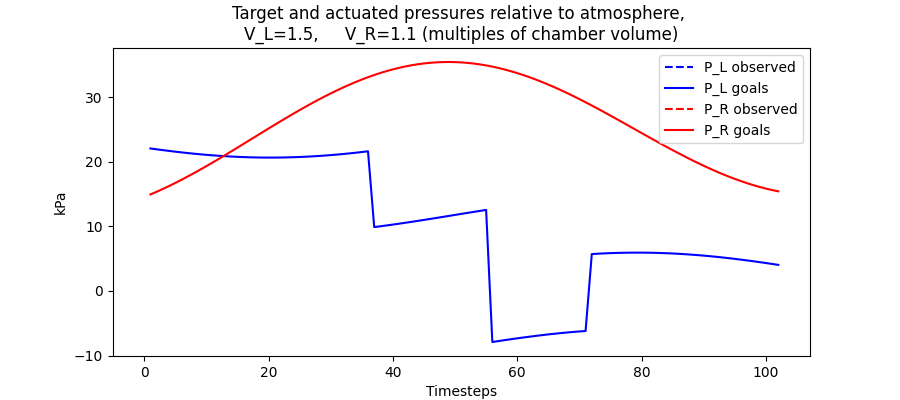
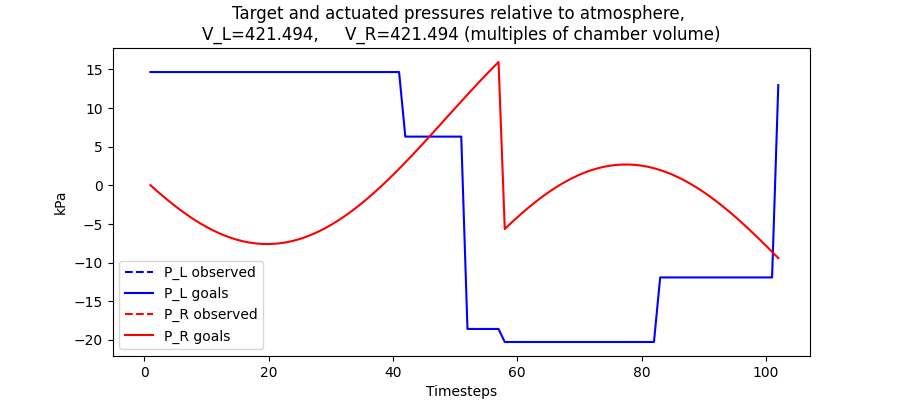
working progress

diff --git a/pump_realenv_variable_load_two_DRA.py b/pump_realenv_variable_load_two_DRA.py
@@ -35,13 +35,14 @@ class PumpRealEnvVar_Two(PumpEnv):
 
         # super(PumpEnv, self).__init__()
         self.observation_name = [
-        "Goal_L[t]", "Goal_L[t+1]", 
-        "Goal_L[t+2]", "Goal_R[t]", "Goal_R[t+1]", "Goal_R[t+2]",
-        "self.pump.Lchamber.load_P", "self.pump.Rchamber.load_P", "self.pump.Lchamber.P", "self.pump.Rchamber.P", 
-        # self.pump.Lchamber.V, self.pump.Rchamber.V,  # V is not available in the real pump
-        "CHAMBER_LEN + self.pump.P_M", "CHAMBER_LEN - self.pump.P_M", "self.pump.P_M",
-        "self.pump.valve[0]", "self.pump.valve[1]", "self.pump.valve[2]", "self.pump.valve[3]", "self.pump.valve[4]", 
-        "self.pump.V_L", "self.pump.V_R"
+            "Goal_L[t]", "Goal_L[t+1]", 
+            "Goal_L[t+2]", "Goal_R[t]", 
+            # "Goal_R[t+1]", "Goal_R[t+2]",
+            "self.pump.Lchamber.load_P", "self.pump.Rchamber.load_P", "self.pump.Lchamber.P", "self.pump.Rchamber.P", 
+            # self.pump.Lchamber.V, self.pump.Rchamber.V,  # V is not available in the real pump
+            "CHAMBER_LEN + self.pump.P_M", "CHAMBER_LEN - self.pump.P_M", "self.pump.P_M",
+            "self.pump.valve[0]", "self.pump.valve[1]", "self.pump.valve[2]", "self.pump.valve[3]", "self.pump.valve[4]", 
+            "self.pump.V_L", "self.pump.V_R"
         ]
 
         # Normalize observation
@@ -138,11 +139,14 @@ class PumpRealEnvVar_Two(PumpEnv):
         
         # [Action 0]: P_M
         prev_P_M = self.pump.P_M
-        if np.random.random_sample()>0.5:   
-            goal_P_M = 0.013 ## lim to 0.013 for now
-        else:
-            goal_P_M = -0.013
-        # goal_P_M = action[0] * 0.013 ## lim to 0.013 for now
+
+        # Randomly set goal_P_M for testing
+        # if np.random.random_sample()>0.5:   
+        #     goal_P_M = 0.013 ## lim to 0.013 for now
+        # else:
+        #     goal_P_M = -0.013
+        
+        goal_P_M = action[0] * 0.006 # lim to 0.013 for now
         move_distance = goal_P_M - prev_P_M
         if move_distance >= 0:
             self.pump.move_motor_to_R(move_distance)
@@ -195,7 +199,7 @@ class PumpRealEnvVar_Two(PumpEnv):
         # Loss functions
         # self.loss_L = np.power((self.pump.Lchamber.load_P - self.goal_pressure_L)/P_0, 2) 
         # self.loss_R = np.power((self.pump.Rchamber.load_P - self.goal_pressure_R)/P_0, 2)
-        # self.pump.get_pressure()  # real pump
+        # self.pump.get_pressure()  # real pump 
 
         # prev_observation = self.step_observation # no longer important
         self.step_observation = self.calculate_step_observations() 
@@ -251,7 +255,7 @@ class PumpRealEnvVar_Two(PumpEnv):
         step_observation = np.array([
             self.pump.pressure[2], self.pump.pressure[3], self.pump.pressure[0], self.pump.pressure[1], 
             CHAMBER_LEN+self.pump.P_M, CHAMBER_LEN-self.pump.P_M, self.pump.P_M,
-            self.pump.valve[0], self.pump.valve[1], self.pump.valve[2], self.pump.valve[3], self.pump.valve[4],  # converge faster but not stable
+            self.pump.valve[0], self.pump.valve[1], self.pump.valve[2], self.pump.valve[3], self.pump.valve[4], 
             self.pump.V_L, self.pump.V_R  # load
             # self.load_L, self.load_R  # load
             ])  # real pump
@@ -481,25 +485,11 @@ class PumpRealEnvVar_Two(PumpEnv):
             # "(d) Take reading since now they're equalized to P2",
 
             ])
-
-        # # L R I lL lR notation
-        # action_sequence = np.array([
-        # # Calibrate left load first. PC1 is P_0 as initialized
-        # [ 1, 0, 0, 0, 1, 0, 0, ], # (a) Max right (optional), open left valve to intake air 
-        # [-1, 1, 0, 0, 0, 0, 0, ], # (b) Max left. (set PC1 to current reading)
-        # [-1, 0, 0, 0, 0, 1, 0, ], # (c) Max left, open left load valve (equalize load and chamber pressures)
-        # # Now the left load and left chamber pressure hav equaliezd to P2 
-
-        # [-1, 0, 1, 0, 0, 0, 0, ], # (a) Max left (optional), open right valve to intake air 
-        # [ 1, 1, 0, 0, 0, 0, 0, ], # (b) Max right. (set PC1 to current reading)
-        # [ 1, 0, 0, 0, 0, 0, 1, ], # (c) Max right, open right load valve (equalize load and chamber pressures)
-        # # Now the right load and right chamber pressure have equaliezd to P2 
-        # ])
-        
        
-        # lL cL cR lR I  notation
         action_sequence = np.array([
+
         # Calibrate left load first. PC1 is P_0 as initialized
+        #    N lL cL cR lR  I  notation
         [ 1, 0, 0, 1, 0, 0, 0,], # (a) Max right (optional), open left valve to intake air 
         [-1, 1, 0, 0, 0, 0, 0,], # (b) Max left. (set PC1 to current reading)
         [-1, 0, 1, 0, 0, 0, 0,], # (c) Max left, open left load valve (equalize load and chamber pressures)
@@ -530,7 +520,7 @@ class PumpRealEnvVar_Two(PumpEnv):
         
         # for i in range(self.max_episodes):
         for i, (name, action) in enumerate(zip(action_names, action_sequence)):
-            print(name)
+            print(name, " action: ",action)
             _,_,_,_ = self.step(action)
             # if render==1:
                 # self.render(0, title=name)
@@ -548,8 +538,8 @@ class PumpRealEnvVar_Two(PumpEnv):
                 P_2 = self.pump.pressure[0] # which should also be observation[5]
 
                 if P_L1-P_2 == 0: # If no change
-                    V_L = 8
-                    print("No change in pressure, set V_L to 8 (large load)")
+                    V_L = LOAD_V_RANGE[1]
+                    print("No change in pressure, set V_L to max (large load)")
                 else: # Default
                     V_L = (P_2-P_C1)/(P_L1-P_2) * self.pump.Lchamber.V
 
@@ -567,12 +557,12 @@ class PumpRealEnvVar_Two(PumpEnv):
                 P_2 = self.pump.pressure[1]  #self.Rchamber.P
 
                 if P_L1-P_2 == 0: # If no change
-                    V_R = 8
-                    print("No change in pressure, set V_R to 8 (large load)")
+                    V_R = LOAD_V_RANGE[1]
+                    print("No change in pressure, set V_R to max (large load)")
                 else: # Default
                     V_R = (P_2-P_C1)/(P_L1-P_2) * self.pump.Rchamber.V
 
-
+        print("Calibration complete, V_L: {:.07f}, V_R: {:.07f}".format(V_L, V_R))
         if render == 1:
             # print("Calculated load volumes vs real: {:.07f}, {:.07f} | {:.07f}, {:.07f} ".format(
             #     V_L, V_R, self.pump.Lchamber.load_V, self.pump.Rchamber.load_V ))
@@ -604,7 +594,7 @@ class PumpRealEnvVar_Two(PumpEnv):
 
     def render(self, time=0, title='', filename=None):
         # Render the environment to the screen
-        self.pump.render(time, title, filename)
+        return self.pump.render(time, title, filename)
         print("TODO")  # TODO: render real pump
 
     def tim(self, task_name):

diff --git a/pump_test_two_real.py b/pump_test_two_real.py
@@ -7,6 +7,8 @@ import os
 import cv2
 import numpy as np
 
+# os.chdir("Pump-RL-Real")
+
 P_0 = 1.01*1e5  # Pa
 
 test_loads=[
@@ -125,10 +127,13 @@ for load in test_loads:
             time=1
         )
 
-        P_R.append((env.pump.Rchamber.load_P-P_0)/1000)
-        # P_R_G.append((env.goal_pressure_R-P_0)/1000)
-        P_L.append((env.pump.Lchamber.load_P-P_0)/1000)
-        # P_L_G.append((env.goal_pressure_L-P_0)/1000)
+        # self.Lchamber.load_P =   self.pressure[2]
+        # self.Rchamber.load_P =   self.pressure[3]
+        
+        P_L.append((env.pump.pressure[2]-P_0)/1000)
+        P_R.append((env.pump.pressure[3]-P_0)/1000)
+        # P_R.append((env.pump.Rchamber.load_P-P_0)/1000)
+        # P_L.append((env.pump.Lchamber.load_P-P_0)/1000)
         R.append(env.reward)
         
         # env.goal_pressure_sequence_L/1000
@@ -146,7 +151,7 @@ for load in test_loads:
 
         # print("obs:", obs[-1])
         # print('env.load', env.load)
-        action, _states = model.predict(obs)
+        action, _states = model.predict(env.step_observation)
         obs, reward, done, info = env.step(action)
         # print("Rchamber.P: {p:.3f} | ".format(p=env.pump.Rchamber.P/P_0),
         #       "Goal {p1} pressure {p2:.3f} | ".format(p1=env.goal_sequence_number, p2=env.goal_pressure/P_0),

diff --git a/pump_real_load_addvalve_dra.py b/pump_real_load_addvalve_dra.py
@@ -258,7 +258,7 @@ class real_pump:
                 print("Moving done!")
             elif rc!='' and rc[0] == "falPo":
                 print("Moving failed! Reset...")
-                time.sleep(10)
+                time.sleep(2)
                 moving_done = self.set_position(position)
         self.get_position()
         return moving_done
@@ -288,6 +288,7 @@ class real_pump:
             self.valve[2] = int(rc.split(',')[2])
             self.valve[3] = int(rc.split(',')[3])
             self.valve[4] = int(rc.split(',')[4])
+            # print('Split into states:', self.valve)
         return self.valve
 
     def set_valves(self, valve):
@@ -438,7 +439,7 @@ class real_pump:
             # self.Rchamber.change_length(-dL)
             self.P_M = self.P_M_R_Limitation
             print("Setting position to: ", self.P_M)
-            self.set_position(float(self.P_M))
+            self.set_position(self.P_M)
         else:
             # Move to the right
             self.P_M = self.P_M + dL

diff --git a/scripts/plot_goals_two.py b/scripts/plot_goals_two.py
@@ -23,8 +23,8 @@ ax.plot(np.arange(1, P_L_G.size+1), P_L_G, '-b')
 ax.plot(np.arange(0, P_R.size), P_R, '--r')
 ax.plot(np.arange(1, P_R_G.size+1), P_R_G, '-r')
 
-ax.set_title("Target and actuated pressures relative to atmosphere, \nV_L={:.01f}, \
-    V_R={:.01f} (multiples of chamber volume)".format(VL, VR))
+ax.set_title("Target and actuated pressures relative to atmosphere, \nV_L={:.03f}, \
+    V_R={:.03f} (multiples of chamber volume)".format(VL, VR))
 ax.set_xlabel("Timesteps")
 ax.set_ylabel("kPa")
 
